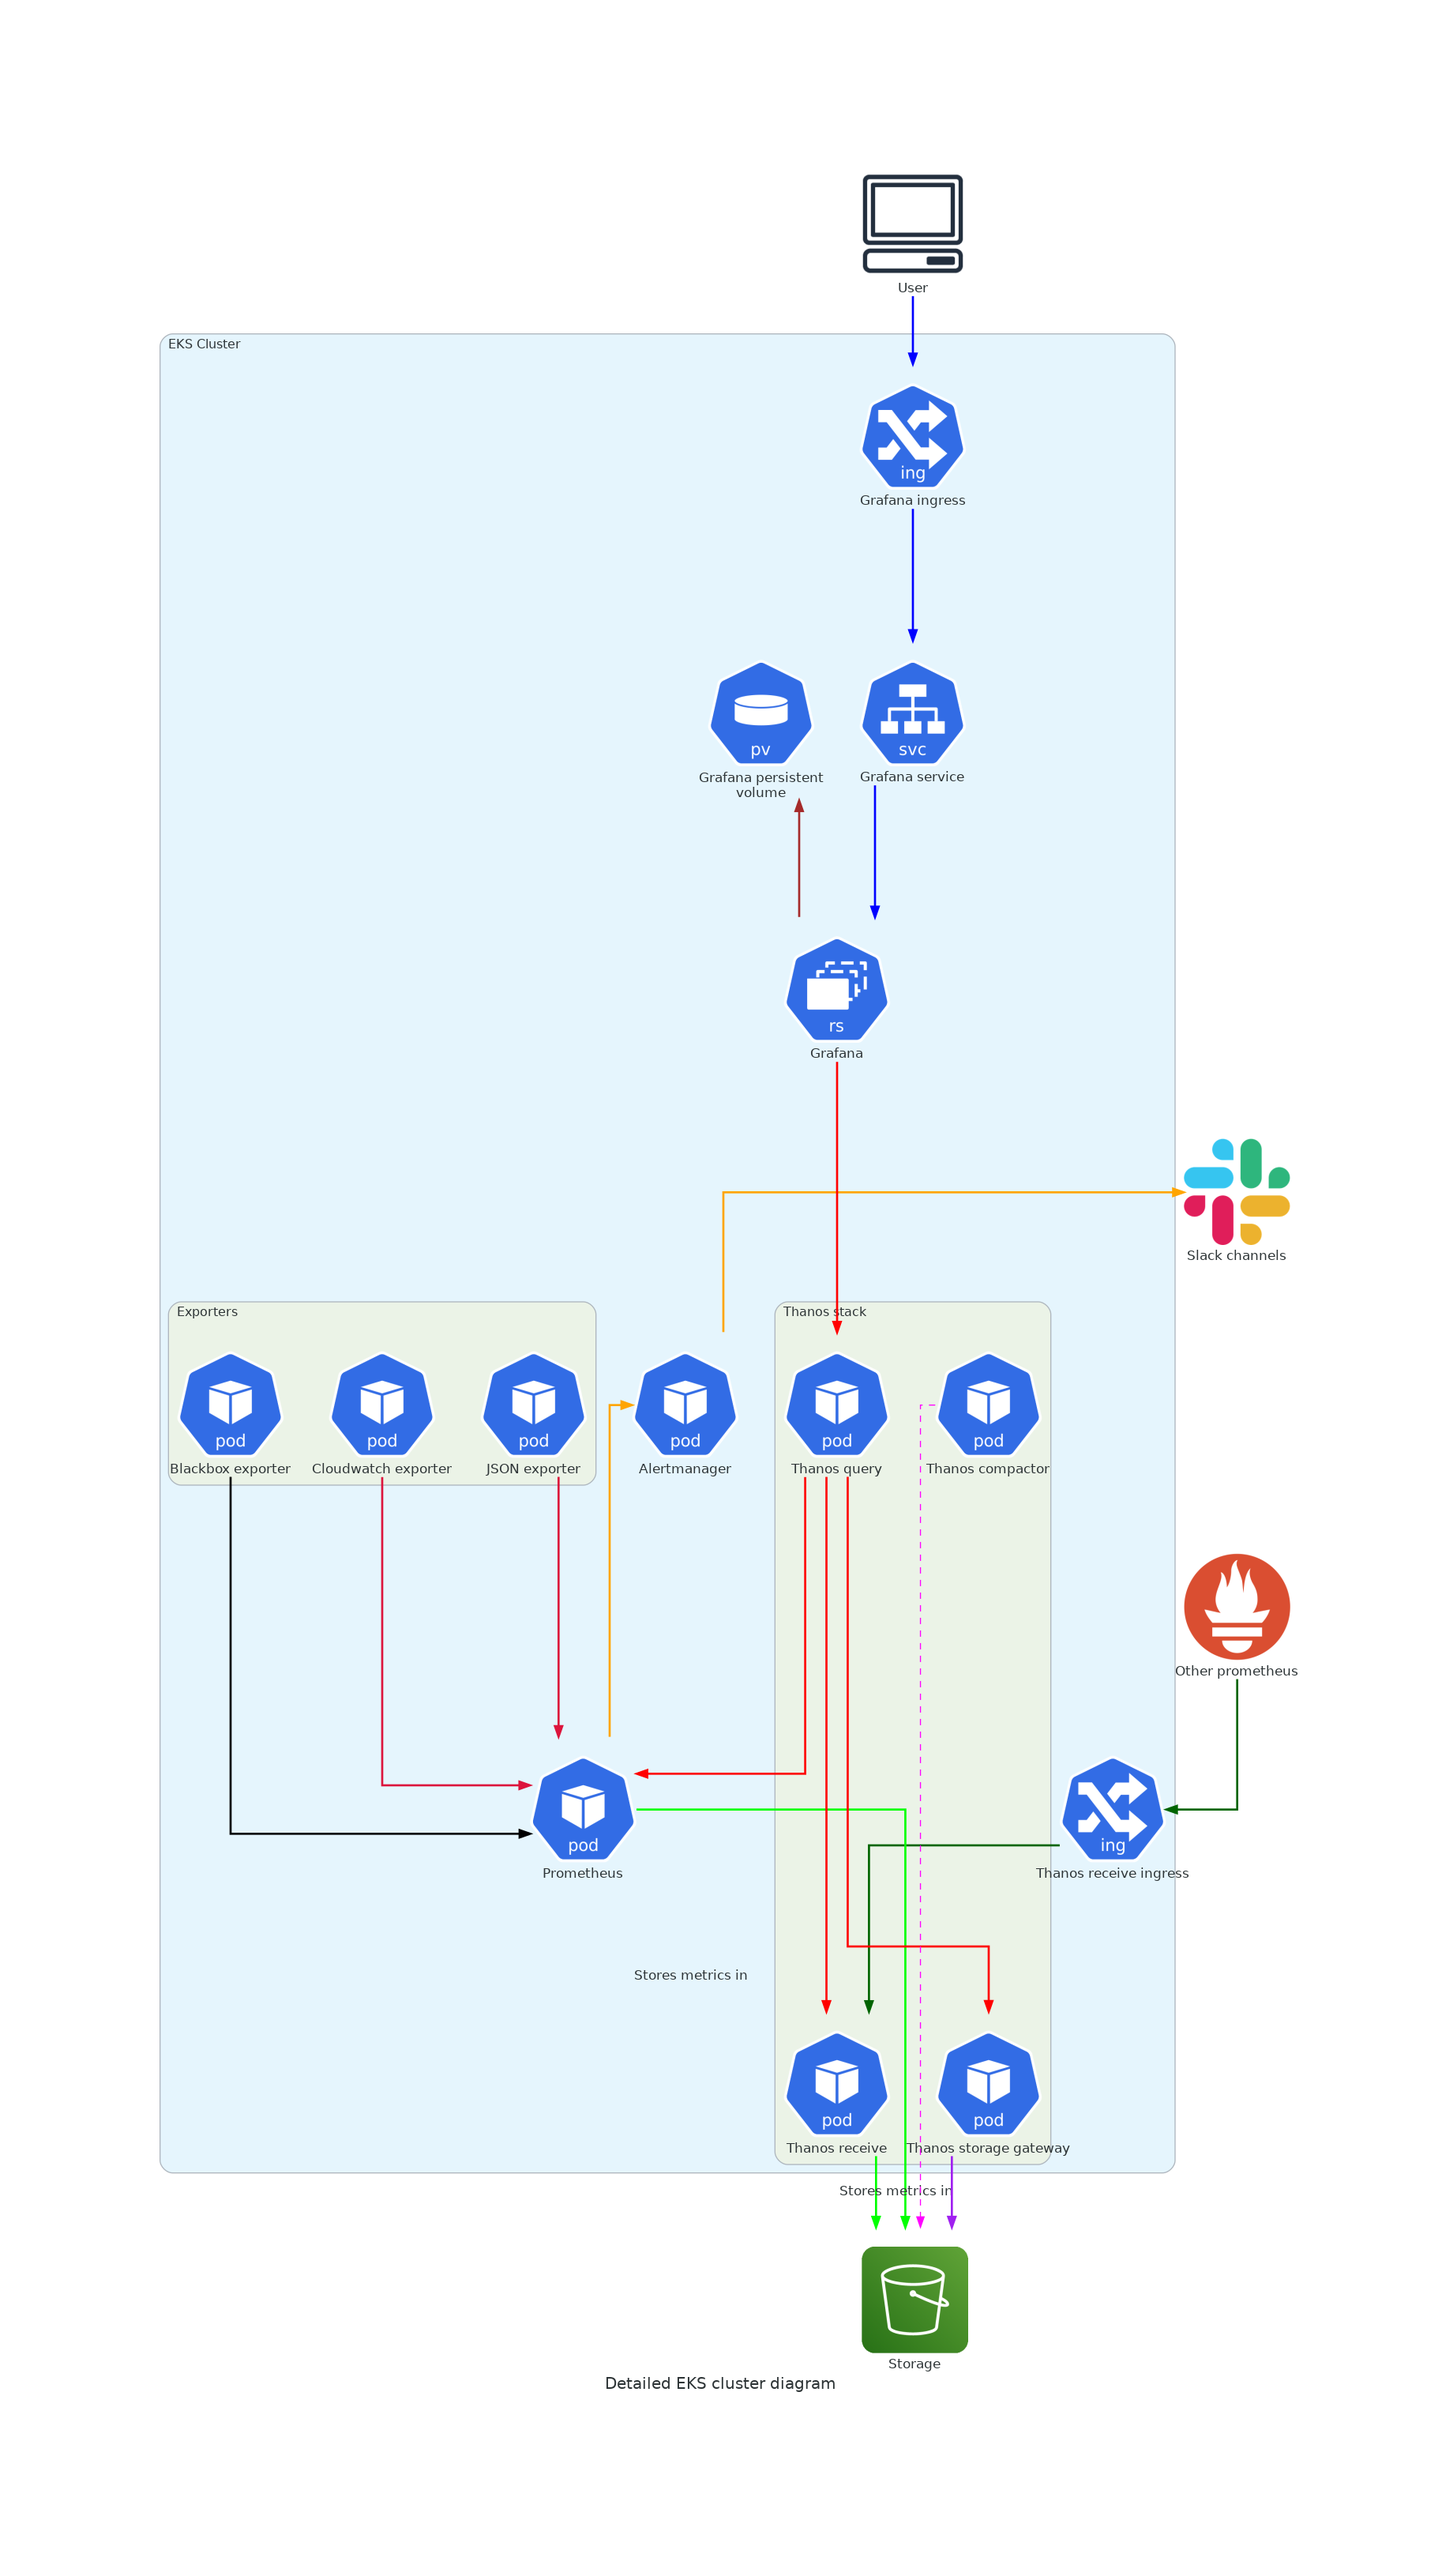
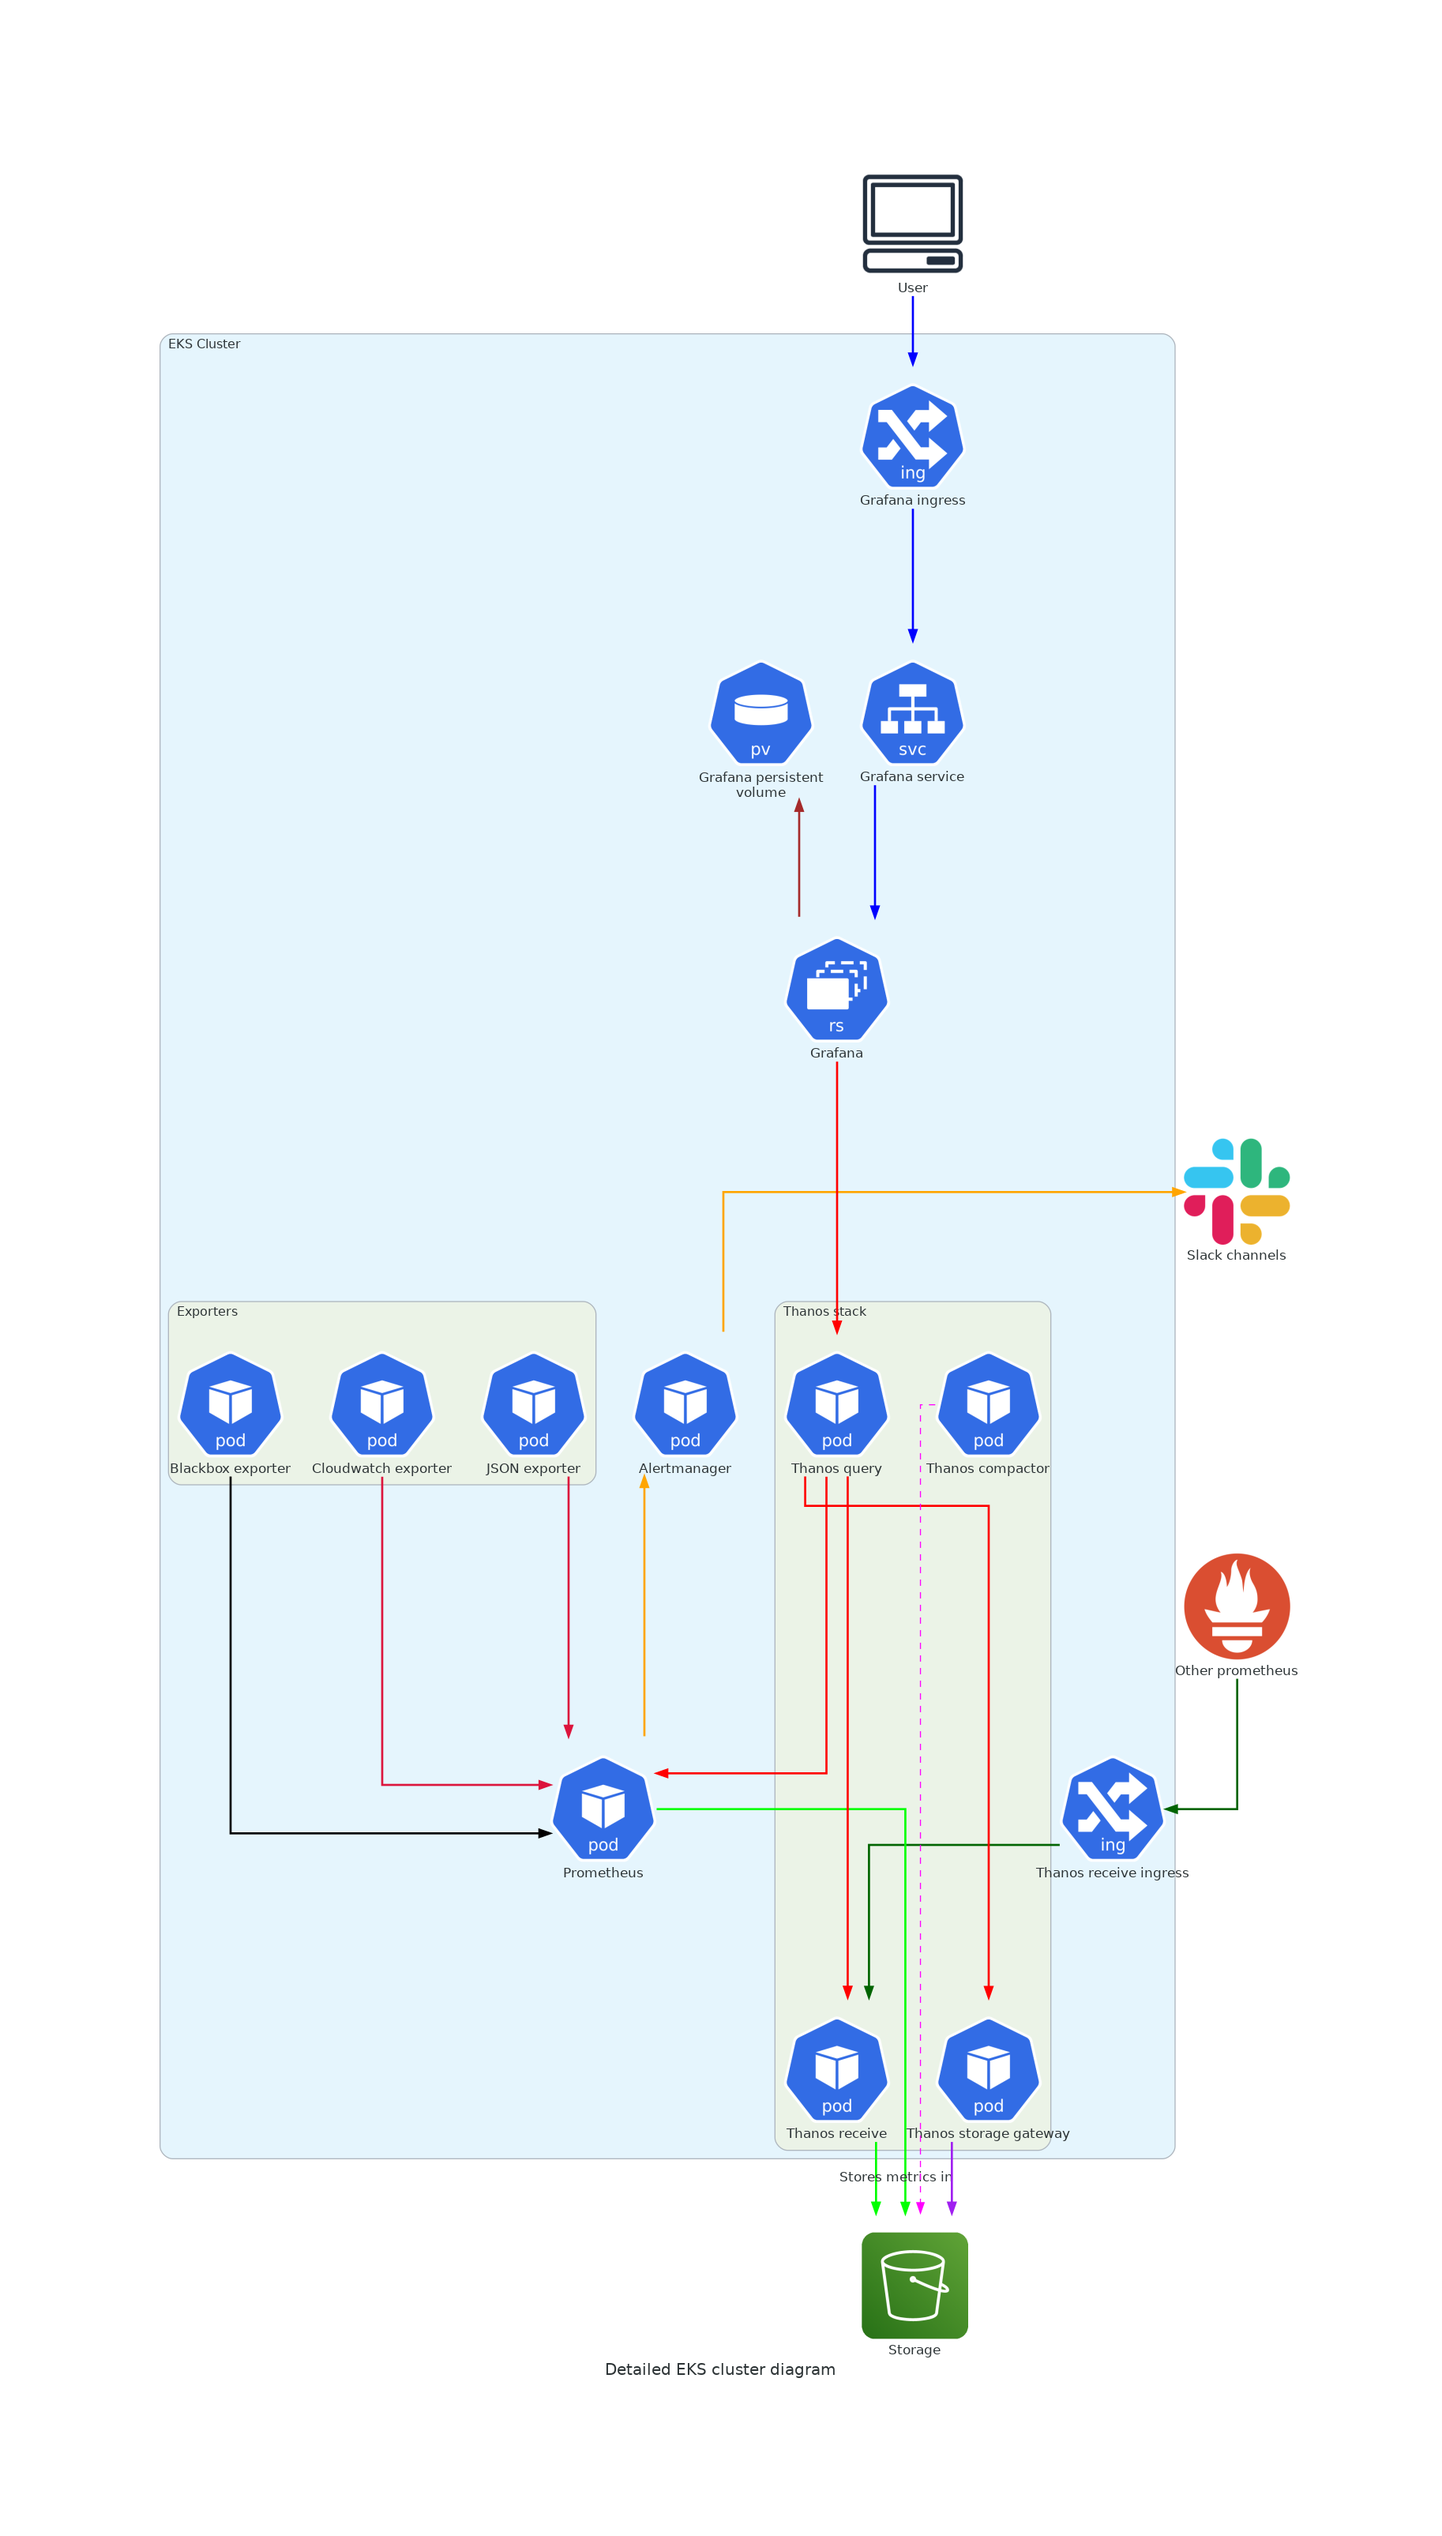
:memo: update README and diagrams

diff --git a/diagrams/scripts/detailed_eks_diagram.py b/diagrams/scripts/detailed_eks_diagram.py
@@ -47,7 +47,7 @@ with Diagram("Detailed EKS cluster diagram", show=False, direction="TB"):
   other_prometheus >> Edge(color="darkgreen", style="bold") >> thanos_receive_ingress >> Edge(color="darkgreen", style="bold") >> thanos_receive
 
   thanos_query >> Edge(color="red", style="bold") >> \
-  prometheus >> Edge(color="green", style="bold", label="Stores metrics in") >> \
+  prometheus >> Edge(color="green", style="bold") >> \
   s3_bucket
 
   thanos_query >> Edge(color="red", style="bold") >> \

diff --git a/README.md b/README.md
@@ -1,28 +1,20 @@
-# Ministry of Justice Template Repository
+# Core Network Services Monitoring
+
+[![Deployment](https://github.com/ministryofjustice/staff-infrastructure-monitoring-cluster/actions/workflows/deployment.yml/badge.svg)](https://github.com/ministryofjustice/staff-infrastructure-monitoring-cluster/actions/workflows/deployment.yml)
 
 [![repo standards badge](https://img.shields.io/badge/dynamic/json?color=blue&style=for-the-badge&logo=github&label=MoJ%20Compliant&query=%24.data%5B%3F%28%40.name%20%3D%3D%20%22template-repository%22%29%5D.status&url=https%3A%2F%2Foperations-engineering-reports.cloud-platform.service.justice.gov.uk%2Fgithub_repositories)](https://operations-engineering-reports.cloud-platform.service.justice.gov.uk/github_repositories#template-repository "Link to report")
 
-Use this template to [create a repository] with the default initial files for a Ministry of Justice Github repository, including:
+## What is it?
 
-- The correct LICENSE
-- Github Action example
-- A .gitignore file
-- A CODEOWNERS file
-- A dependabot.yml file
-- The MoJ Compliant Badge (Public repositories only)
+Monitoring solution developed by the CNS team (Core Network Service team) to monitor the applications that this team currently manages.
 
-Once you have created your repository, please:
+### What applications are being monitored by this solution?
 
-- Edit the copy of this README.md file to document your project.
-- Grant permission/s to the appropriate MoJ team/s with at least one team having Admin permissions.
-- Try not to add individual users to the repository, instead use a team.
-- To add an Outside Collaborator to the repository follow the guidelines on the [GitHub-collaborator repository](https://github.com/ministryofjustice/github-collaborators).
-- Ensure branch protection is set up on the main branch.
-- [Optional] Modify the CODEOWNERS file and state the team or users that can authorise PR's.
-- Modify the Dependabot file to suit the [dependency manager](https://docs.github.com/en/code-security/dependabot/dependabot-version-updates/configuration-options-for-the-dependabot.yml-file#package-ecosystem) you plan to use and for [automated pull requests for package updates](https://docs.github.com/en/code-security/supply-chain-security/keeping-your-dependencies-updated-automatically/enabling-and-disabling-dependabot-version-updates#enabling-dependabot-version-updates). Dependabot is enabled in the settings by default.
-- Modify the short description found on the right side of the README.md file.
-- Ensure as many of the [GitHub Standards](https://github.com/ministryofjustice/github-repository-standards) rules are maintained as possibly can.
-- Modify the MoJ Compliant Badge url using these [instructions](https://github.com/orgs/ministryofjustice/teams/operations-engineering/discussions). If the repository is internal or private then the badge can removed as it will not work.
-- For a private repo with no GitHub Advanced Security license remove the .github/workflows/dependency-review.yml file.
+- MoJO DNS service
+- MoJO DHCP service
+- Network Access Control (NAC) service
+- DNS and DHCP admin portal
+- PKI
+- Monitoring solution itself (EKS Cluster)
 
-[create a repository]: https://github.com/ministryofjustice/template-repository/generate
+
